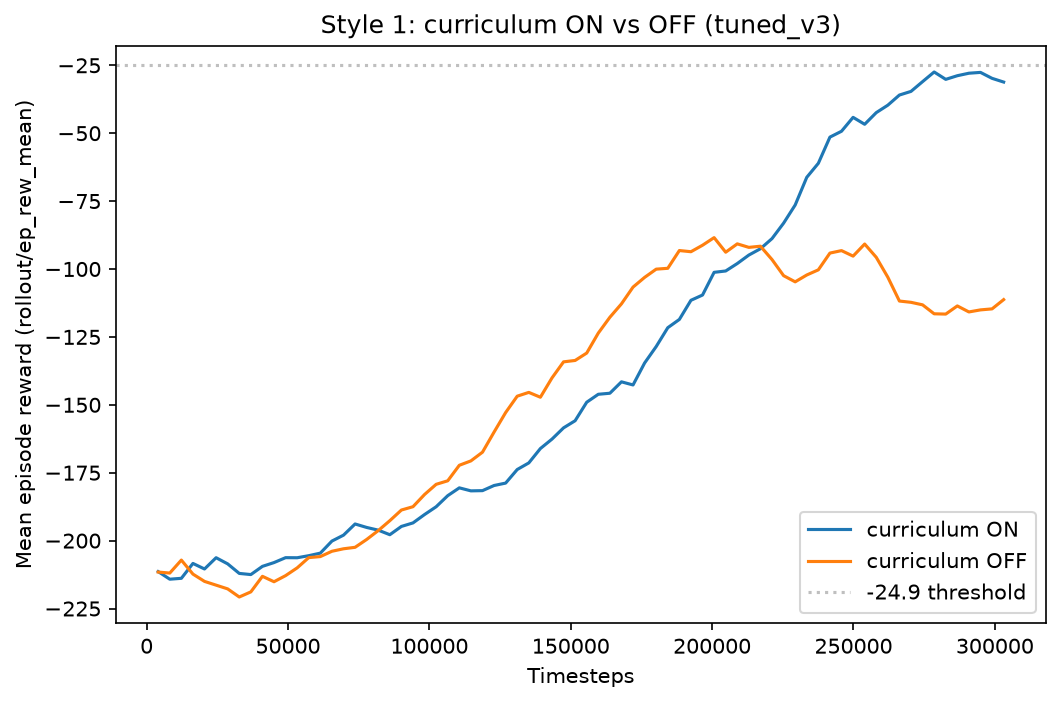
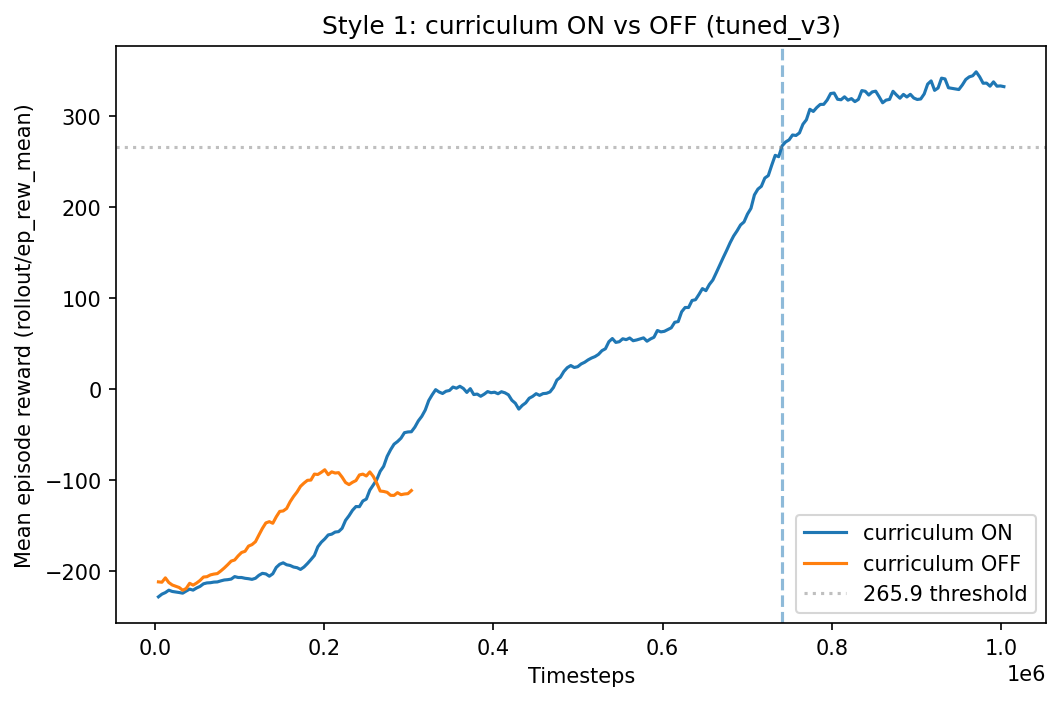
fine-tune part 2

diff --git a/report/figures/part2/style1_vs_style2_comparison.md b/report/figures/part2/style1_vs_style2_comparison.md
@@ -2,7 +2,7 @@
 
 | Style | Episodes | Avg return | Avg survival (steps) | Avg phases reached | Avg enemies destroyed | Avg spawners destroyed |
 |---|---|---|---|---|---|---|
-| 1 | 20 | 73.18 | 800.2 | 2.00 | 13.60 | 2.75 |
-| 2 | 20 | 25.86 | 718.6 | 1.55 | 12.00 | 2.05 |
+| 1 | 20 | 98.66 | 895.4 | 1.45 | 15.80 | 2.05 |
+| 2 | 20 | 31.06 | 641.8 | 2.30 | 10.50 | 3.20 |
 
 *Enemies destroyed = via player projectile only (see this script's module docstring) -- an enemy destroyed by touching the player is not counted here.*

diff --git a/report/figures/part2/curriculum_ablation_style1_tuned_v3.md b/report/figures/part2/curriculum_ablation_style1_tuned_v3.md
@@ -1,0 +1,8 @@
+# Curriculum ablation -- Style 1 (tuned_v3)
+
+| Run | Final ep_rew_mean | Steps to reach 265.9 |
+|---|---|---|
+| curriculum ON  | 332.37 | 741376 |
+| curriculum OFF | -111.27 | not reached |
+
+One of the two runs never reached the threshold within its logged timesteps -- see the raw final rewards above instead of a steps-to-threshold claim.

diff --git a/report/figures/part2/curriculum_ablation_style2_tuned_v3.md b/report/figures/part2/curriculum_ablation_style2_tuned_v3.md
@@ -1,0 +1,8 @@
+# Curriculum ablation -- Style 2 (tuned_v3)
+
+| Run | Final ep_rew_mean | Steps to reach 278.2 |
+|---|---|---|
+| curriculum ON  | 347.78 | 786432 |
+| curriculum OFF | 9.91 | not reached |
+
+One of the two runs never reached the threshold within its logged timesteps -- see the raw final rewards above instead of a steps-to-threshold claim.
